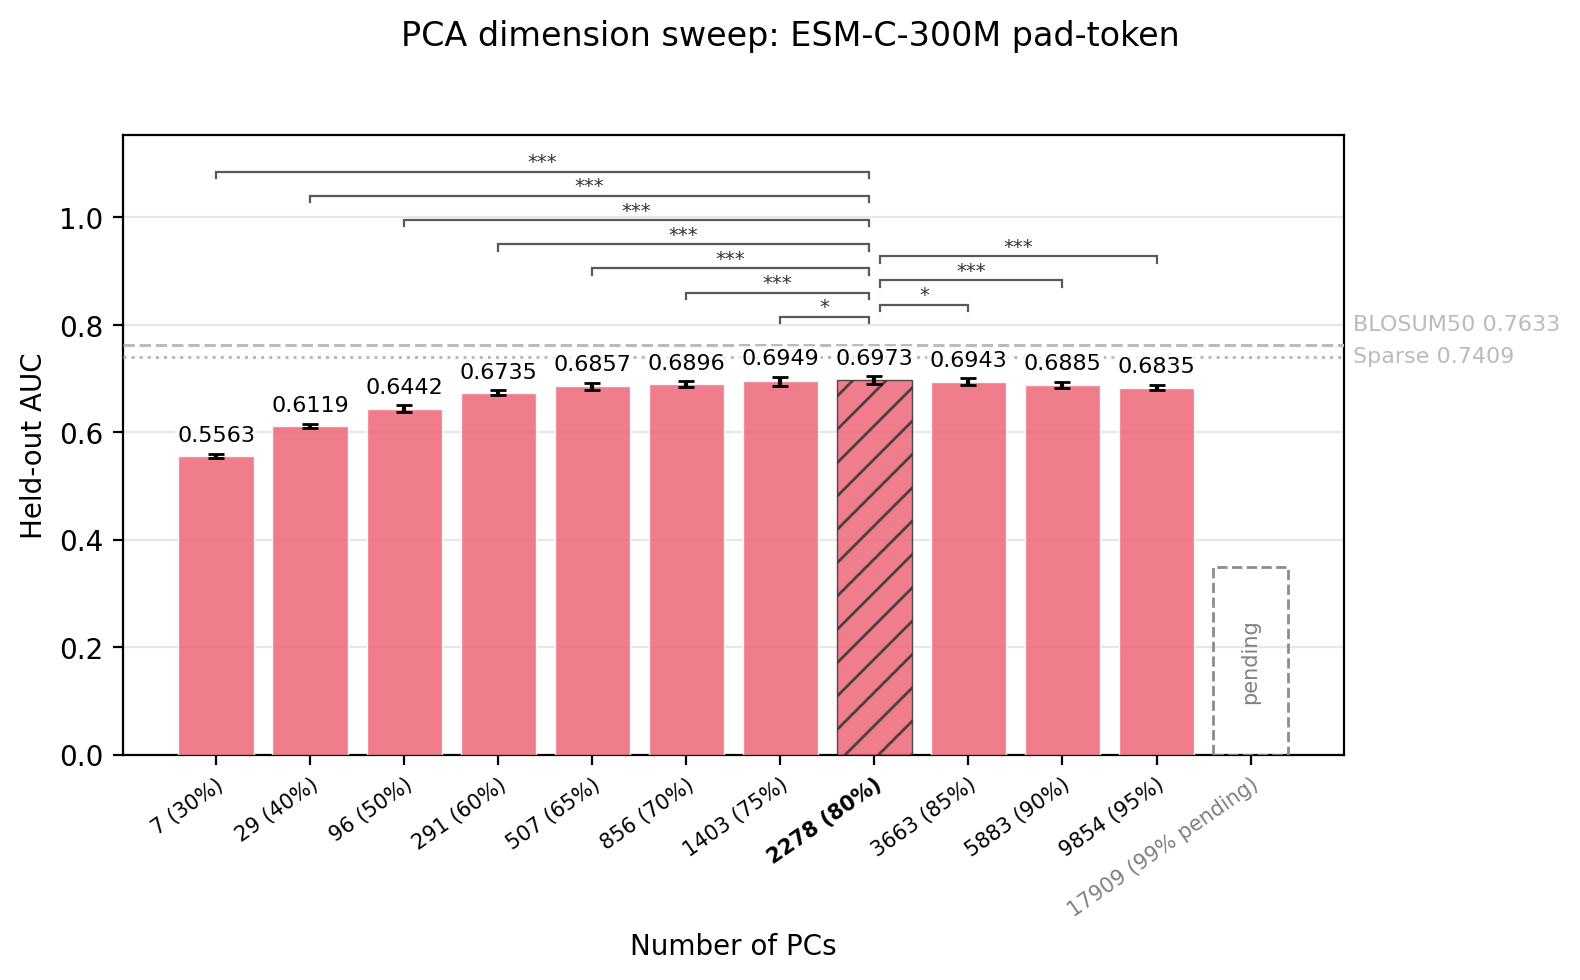
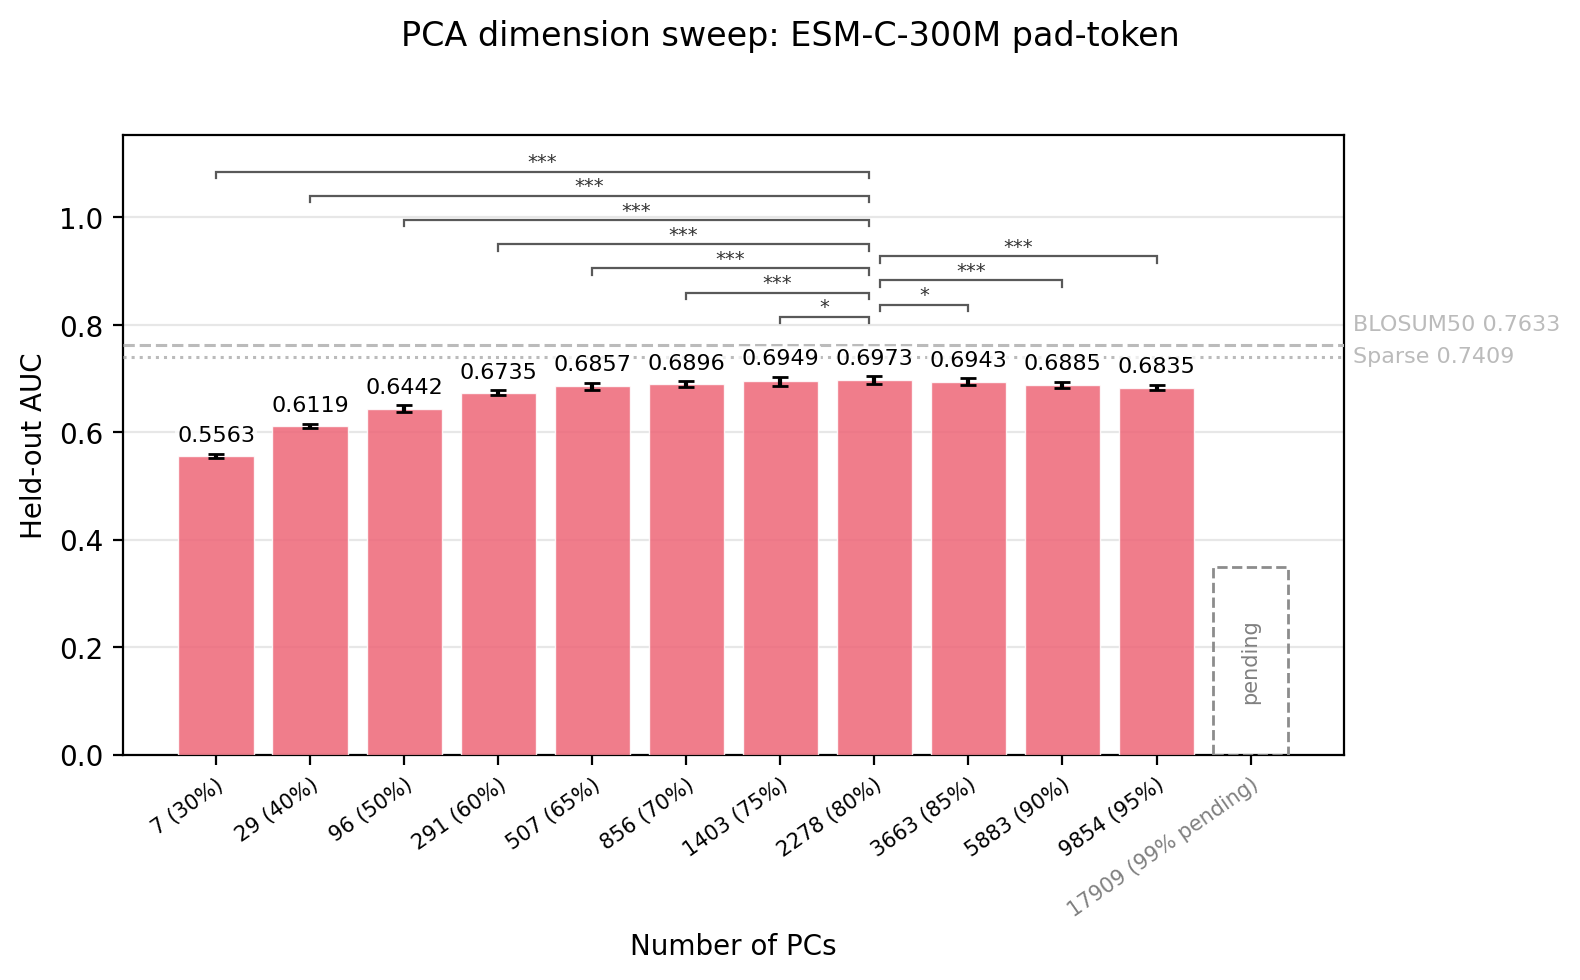
style(pca-sweep): drop best-PC highlight from AUC bar figure

diff --git a/src/investigation/pca_sweep_AUC_delong_comparison.py b/src/investigation/pca_sweep_AUC_delong_comparison.py
@@ -349,9 +349,8 @@ def _finish(fig, ax, title, out_png):
 
 def plot_auc(cfg, models, refs, pairs_vs_ref, out_png, ref_k,
              alpha=0.05, min_delta=0.0):
-    """Pooled AUC ± outer-fold std bars, hatched best-AUC reference k,
-    baseline lines, and brackets to the reference ONLY for k's
-    significantly different from it (pairs_vs_ref = vs_best family).
+    """Pooled AUC ± outer-fold std bars, brackets to the reference ONLY for
+    k's significantly different from it (pairs_vs_ref = vs_best family).
     cfg['pending'] k's (results not in yet) get an empty ghost slot."""
     ks = sorted(models)
     pending = sorted(cfg.get("pending", []))
@@ -376,10 +375,8 @@ def plot_auc(cfg, models, refs, pairs_vs_ref, out_png, ref_k,
 
     fig, ax = plt.subplots(figsize=(8, 5))
 
-    bars = ax.bar(pos, pooled, yerr=ostd, color=cfg["color"], alpha=0.85,
-                  capsize=3, edgecolor="white", lw=0.5, zorder=3)
-    bars[ref_i].set_hatch("//")
-    bars[ref_i].set_edgecolor("0.2")
+    ax.bar(pos, pooled, yerr=ostd, color=cfg["color"], alpha=0.85,
+           capsize=3, edgecolor="white", lw=0.5, zorder=3)
     for i in range(len(ks)):
         ax.text(i, pooled[i] + ostd[i] + 0.015, f"{pooled[i]:.4f}",
                 ha="center", va="bottom", fontsize=8, zorder=5,
@@ -414,8 +411,6 @@ def plot_auc(cfg, models, refs, pairs_vs_ref, out_png, ref_k,
     for lab, k in zip(ax.get_xticklabels(), tick_ks):
         if k in pending:
             lab.set_color("0.5")
-        elif k == ref_k:
-            lab.set_fontweight("bold")
     ax.set_xlabel("Number of PCs")
     ax.set_ylabel("Held-out AUC")
     ax.grid(True, axis="y", alpha=0.3)
